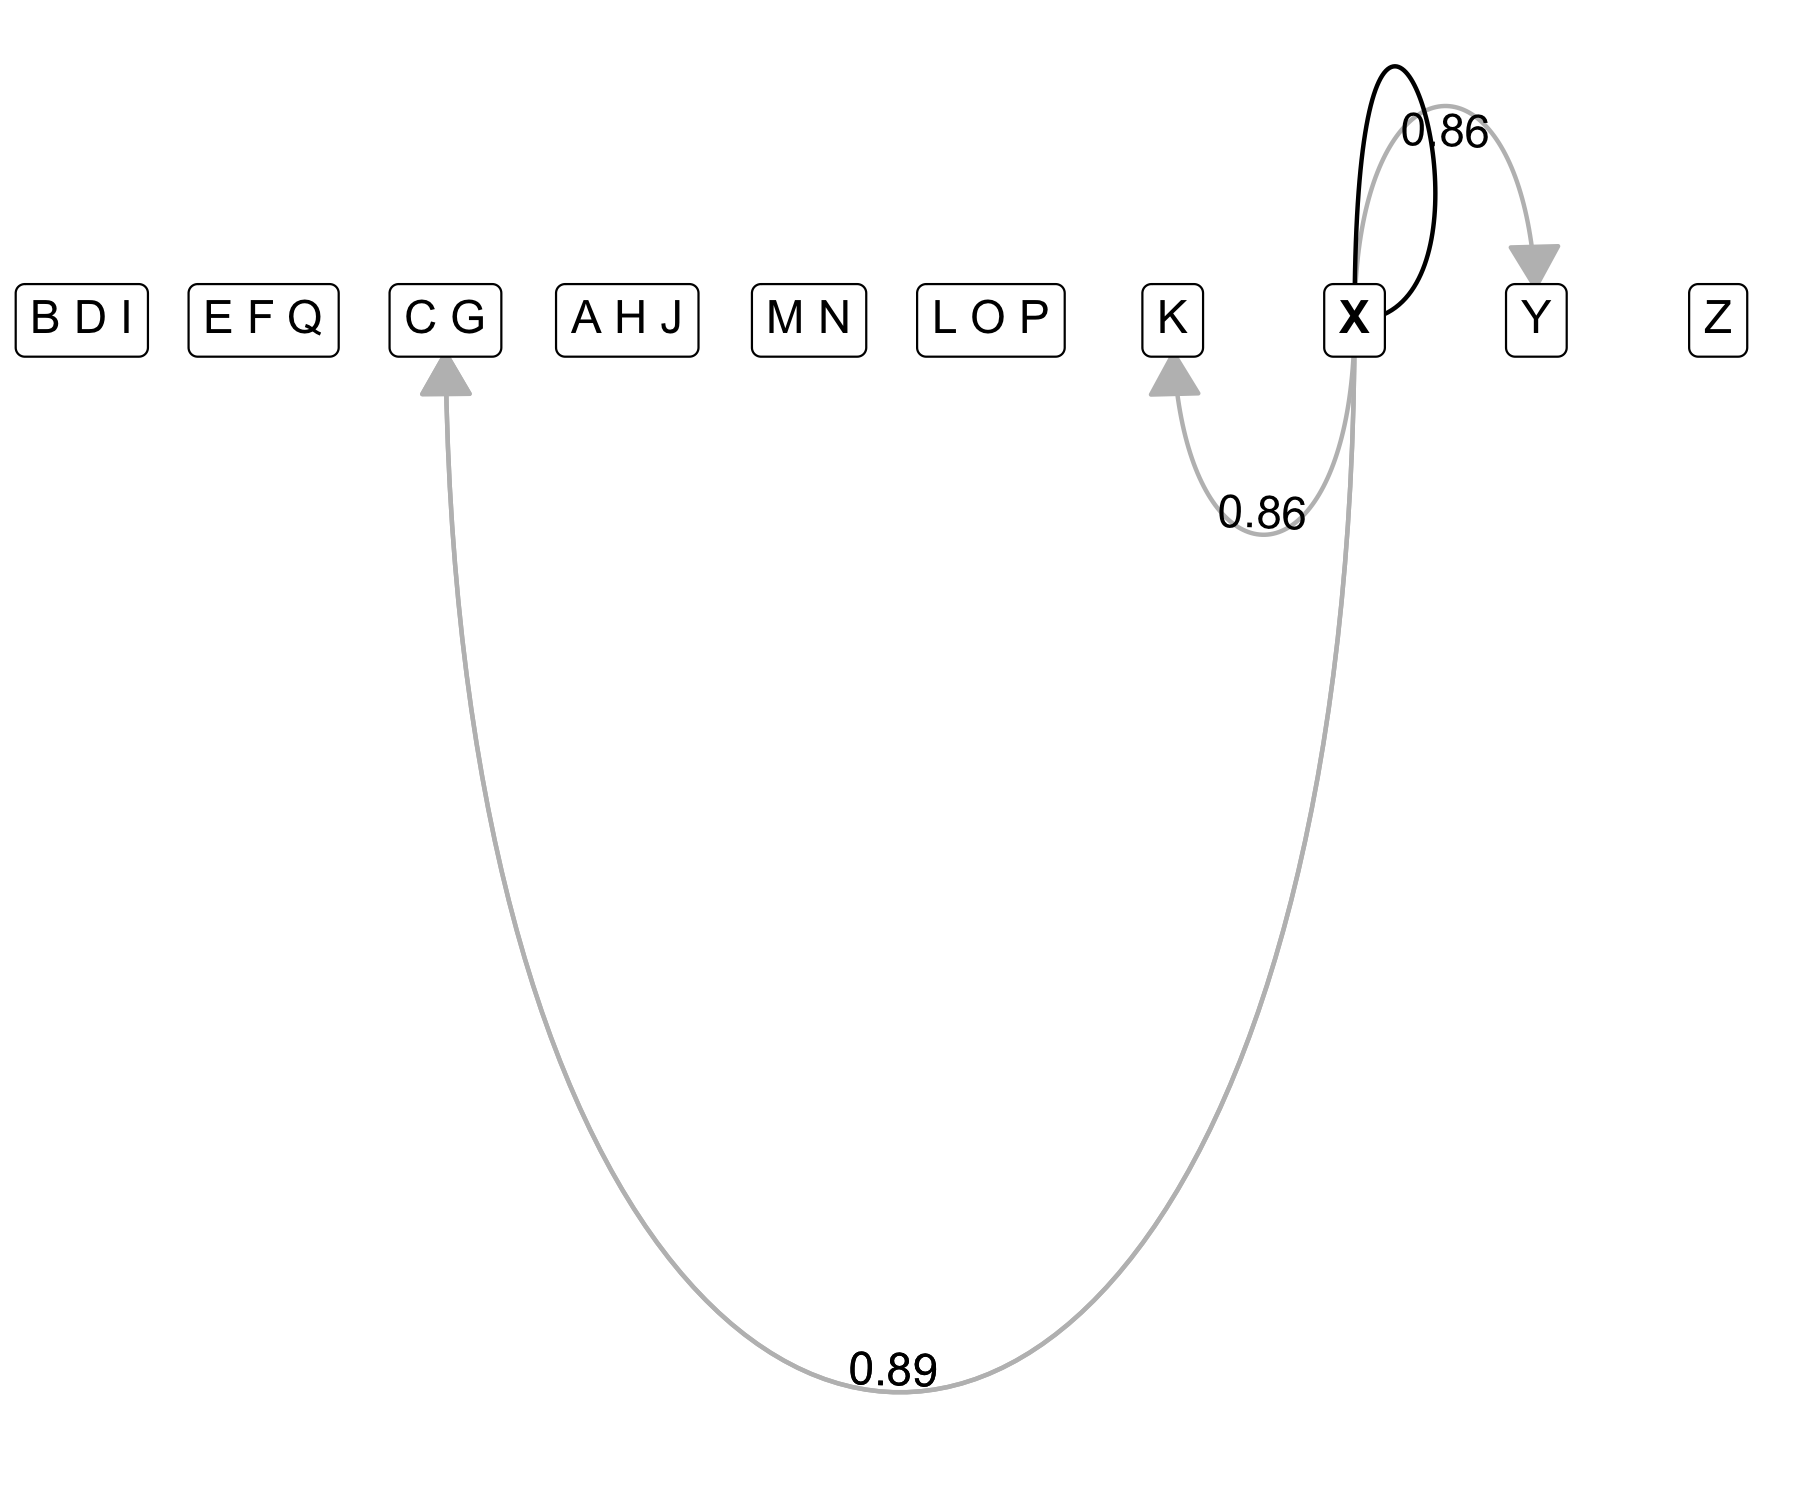
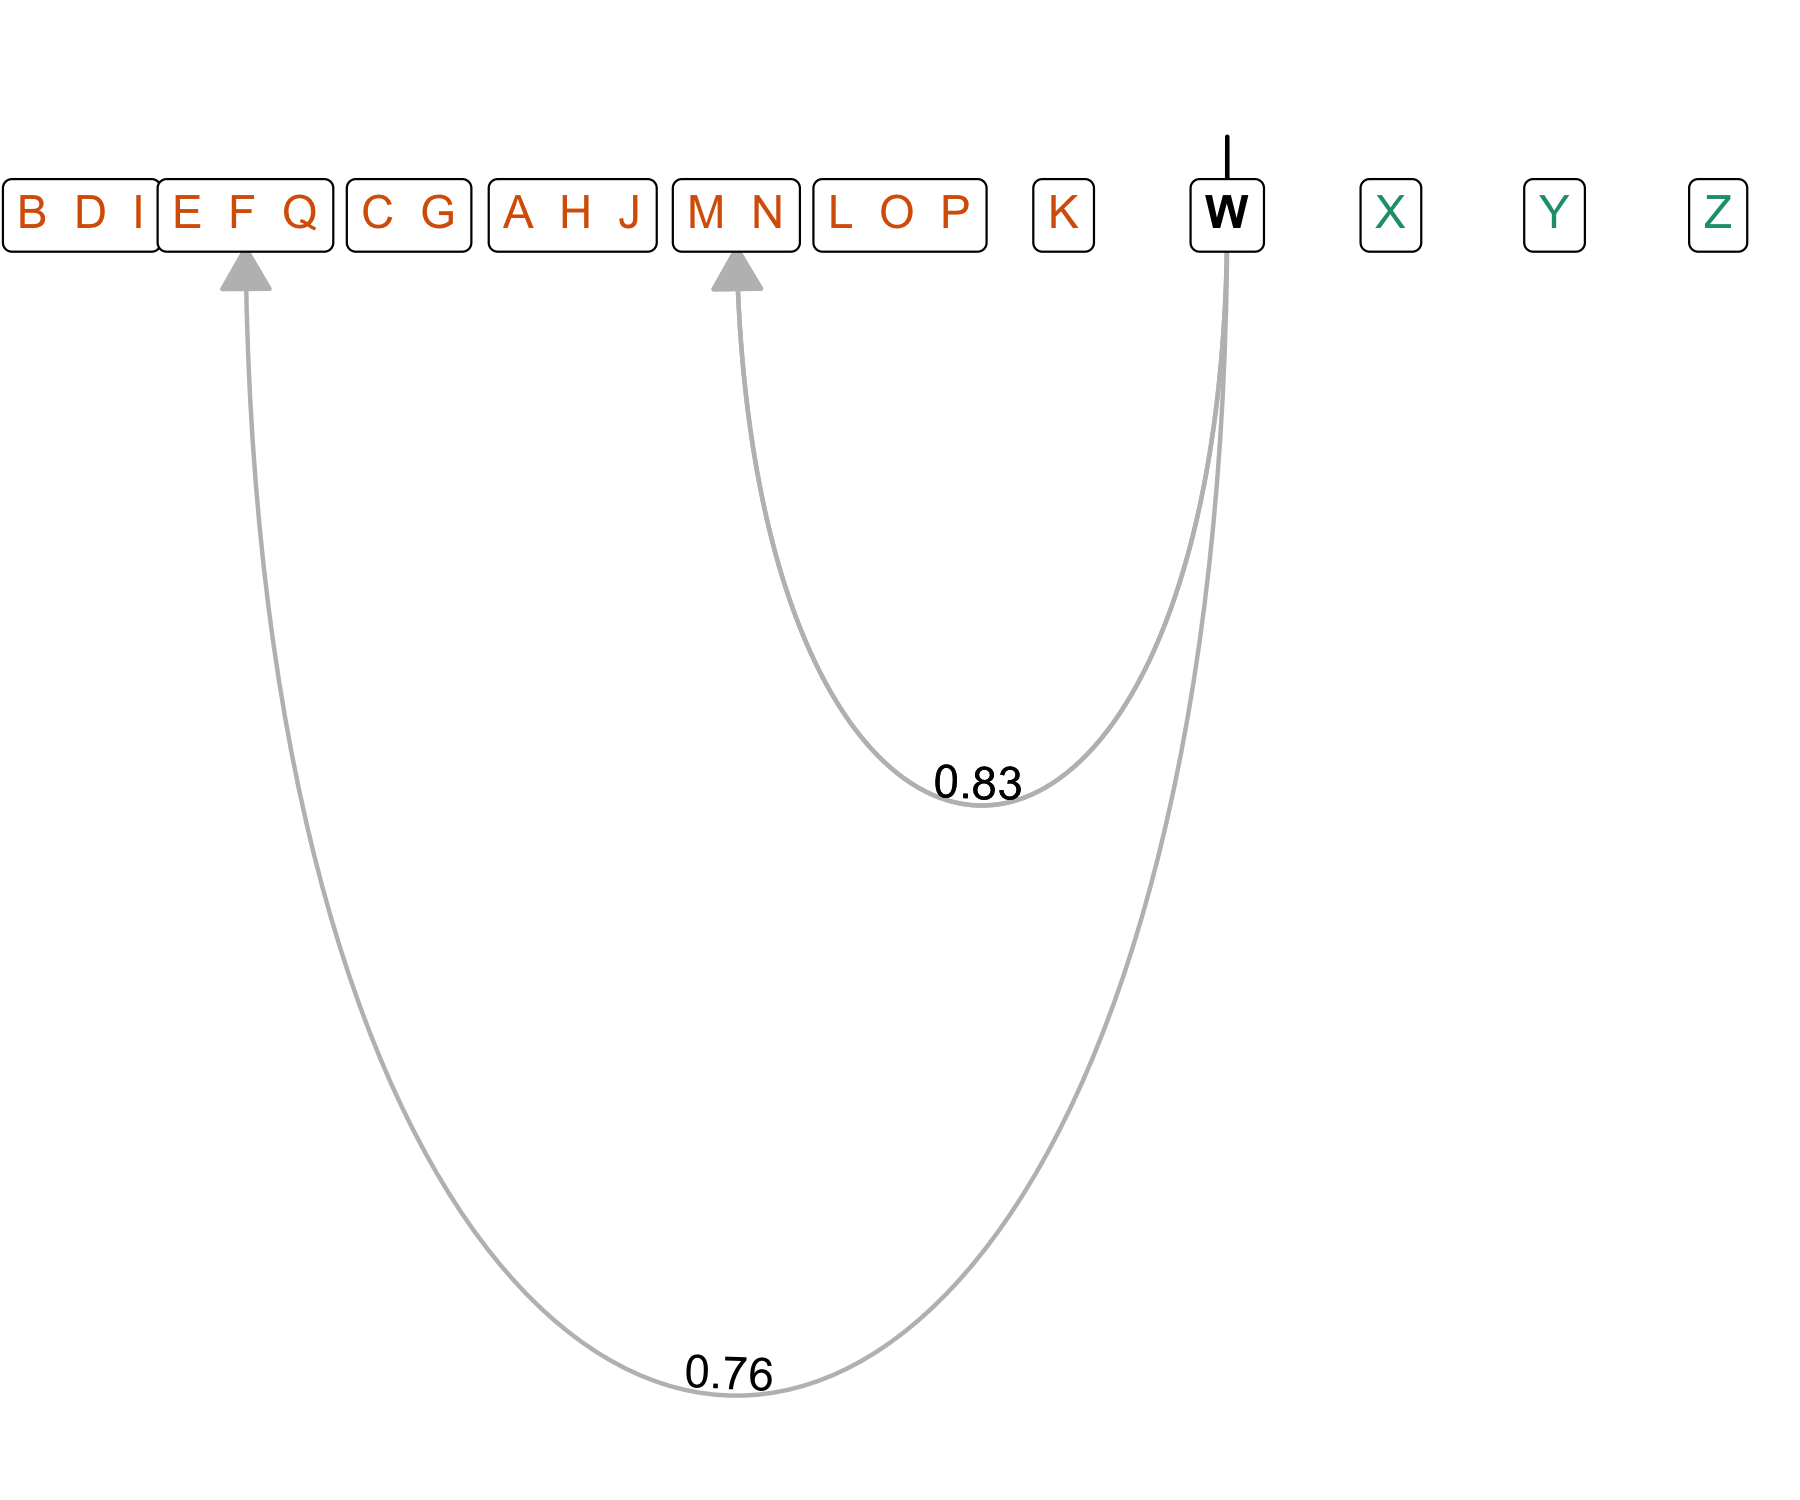
Tweak plot annotations

diff --git a/exploratory/2021/algorithm_diagram.md b/exploratory/2021/algorithm_diagram.md
@@ -4,6 +4,7 @@
 library(here)
 library(tidyverse)
 library(diagram)
+library(glue)
 library(reticulate)
 use_python('~/miniconda3/bin/python')
 ```
@@ -182,7 +183,7 @@ g2 <-
 ## plot several optifit iterations
 
 ``` r
-plot_graph <- function(graph) {
+plot_graph <- function(graph, title = '') {
   create_layout(graph, 'linear', sort.by = id) %>% 
   ggraph() +
   geom_edge_arc(aes(label = mcc,
@@ -194,11 +195,12 @@ plot_graph <- function(graph) {
                 angle_calc = 'along',
                 label_dodge = unit(-2, 'mm')
                 ) +
-  geom_edge_loop(aes(#span = 1, strength = 0.2, direction = 270, 
+  geom_edge_loop(aes(span = 1, direction = 90, strength = 0.2,# direction = 270, 
                      color = is_loop)) +
   geom_node_label(aes(label = name)) +
     scale_edge_color_manual(values = c('black')#c('white')
                             ) +
+  labs(title = title) +
   theme_void() +
   theme(plot.margin=unit(x=c(0,0,10,0), units="pt"),
         legend.position = 'none')
@@ -250,13 +252,19 @@ tbl_graph(nodes = optifit_iters[[1]]$nodes,
 
 ![](figures/optifit_example-1.png)<!-- -->
 
+## plot optifit iterations with ggraph & patchwork
+
 ``` r
+# TODO custom modifications for loop span & direction
 lapply(optifit_iters, function(x) {
   tbl_graph(nodes = x$nodes, edges = x$edges) %>% 
-    plot_graph()
+    plot_graph(title = glue('mcc = {x$edges %>% filter(is_loop) %>% pull(mcc)}'))
 }) %>% 
-  wrap_plots(ncol = 1)
+  wrap_plots(ncol = 1) +
+  plot_annotation(tag_levels = 'A')
 ```
+
+    ## Warning: Ignoring unknown parameters: parse
 
     ## Warning: Ignoring unknown parameters: parse
 
